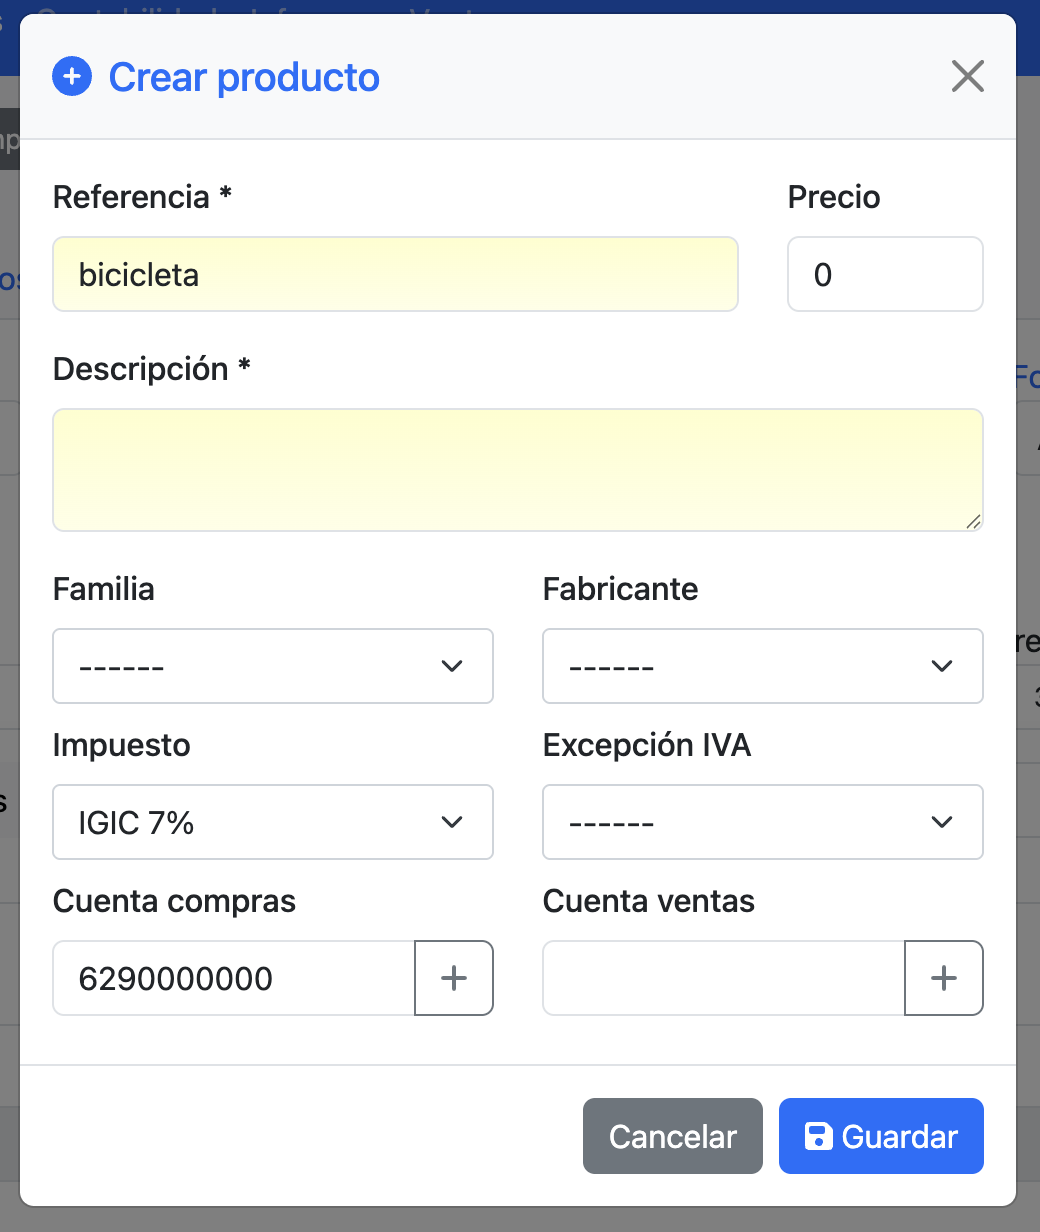
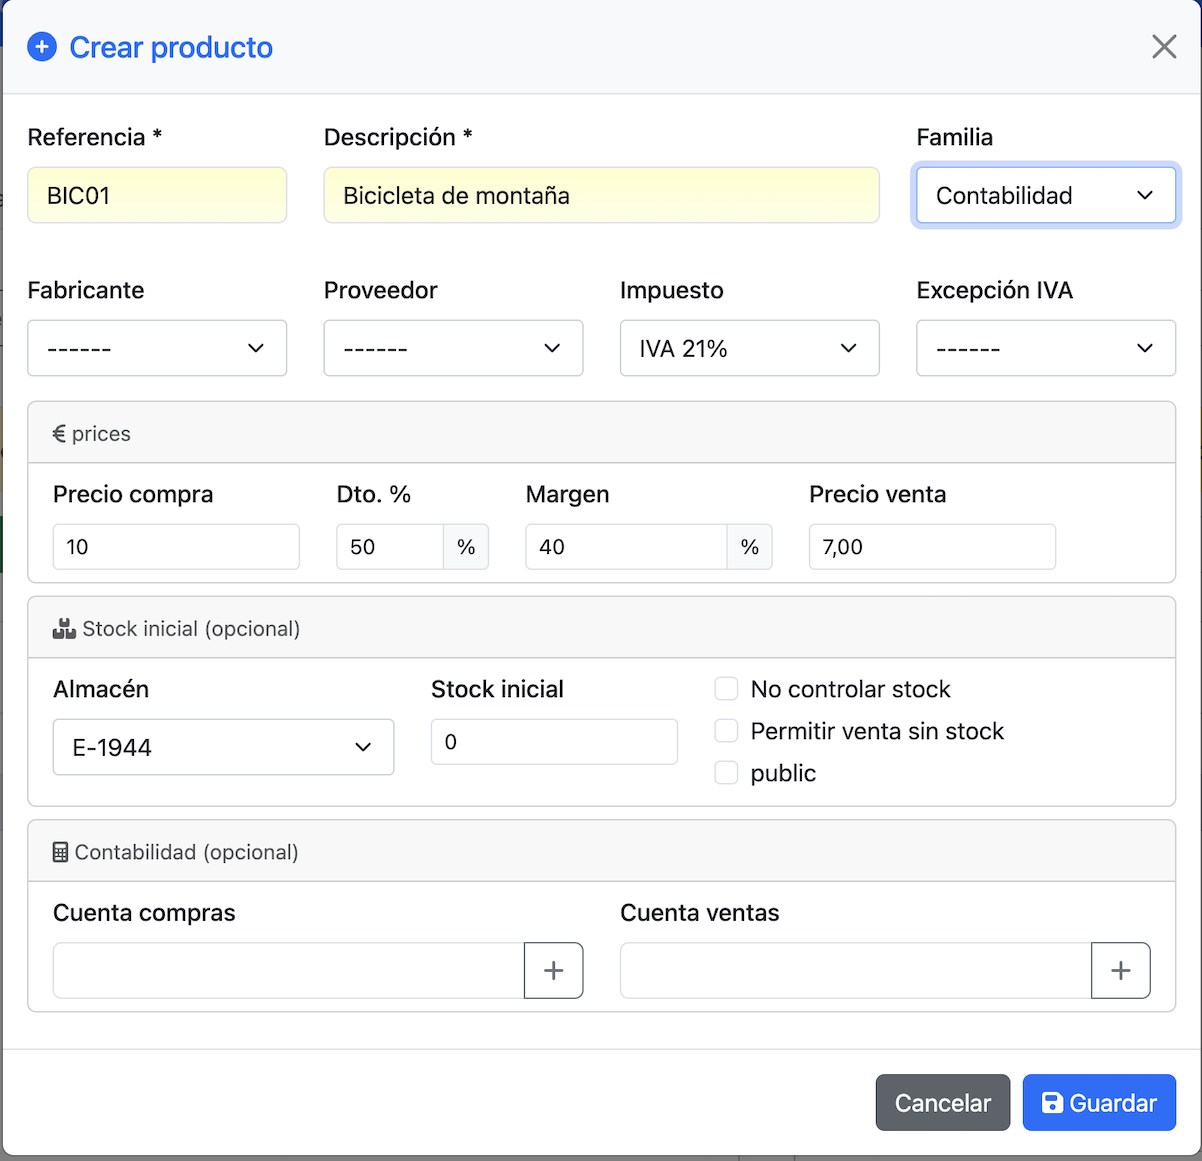
Improved calculation and better form ux

diff --git a/Assets/JS/QuickCreate.js b/Assets/JS/QuickCreate.js
@@ -471,6 +471,7 @@
             const container = document.getElementById('quickCreateProductDynamicFields');
             const purchaseContainer = document.getElementById('quickCreateProductPurchaseFields');
             const stockContainer = document.getElementById('quickCreateProductStockFields');
+            const familyContainer = document.getElementById('quickCreateProductFamilyContainer');
             if (!container) return;
 
             if (this.productOptions === null) {
@@ -478,18 +479,24 @@
                 return;
             }
 
+            // Render Family select in row 1 (inside the modal header row)
+            if (familyContainer) {
+                familyContainer.innerHTML = this.buildSelect2Html('quickCreateProductFamily', 'codfamilia', this.trans('family'), this.productOptions.familias, '');
+                $(familyContainer).find('select.select2').select2({
+                    width: '100%',
+                    theme: 'bootstrap-5',
+                    dropdownParent: $('#quickCreateProductModal')
+                });
+            }
+
             let html = '';
 
-            // Row 1: Familia + Fabricante (Select2)
+            // Row 2: Fabricante + Proveedor + Impuesto + Excepción IVA (Select2)
             html += '<div class="row mb-2">';
-            html += this.buildSelect2Html('quickCreateProductFamily', 'codfamilia', this.trans('family'), this.productOptions.familias, 'col-md-6');
-            html += this.buildSelect2Html('quickCreateProductManufacturer', 'codfabricante', this.trans('manufacturer'), this.productOptions.fabricantes, 'col-md-6');
-            html += '</div>';
-
-            // Row 2: Impuesto + Excepción IVA (Select2)
-            html += '<div class="row mb-2">';
-            html += this.buildSelect2Html('quickCreateProductTax', 'codimpuesto', this.trans('tax'), this.productOptions.impuestos, 'col-md-6', this.productOptions.defaultTax);
-            html += this.buildSelect2Html('quickCreateProductVatException', 'excepcioniva', this.trans('vat-exception'), this.productOptions.excepciones, 'col-md-6');
+            html += this.buildSelect2Html('quickCreateProductManufacturer', 'codfabricante', this.trans('manufacturer'), this.productOptions.fabricantes, 'col-md-3');
+            html += this.buildSelect2Html('quickCreateProductSupplier', 'codproveedor', this.trans('supplier'), this.productOptions.proveedores || [], 'col-md-3');
+            html += this.buildSelect2Html('quickCreateProductTax', 'codimpuesto', this.trans('tax'), this.productOptions.impuestos, 'col-md-3', this.productOptions.defaultTax);
+            html += this.buildSelect2Html('quickCreateProductVatException', 'excepcioniva', this.trans('vat-exception'), this.productOptions.excepciones, 'col-md-3');
             html += '</div>';
 
             container.innerHTML = html;
@@ -501,7 +508,7 @@
                 dropdownParent: $('#quickCreateProductModal')
             });
 
-            // Render purchase data section
+            // Render purchase data section (now "Prices")
             this.renderPurchaseFields(purchaseContainer);
 
             // Render stock data section
@@ -516,16 +523,13 @@
 
             let html = '';
             html += '<div class="card mt-3 mb-2">';
-            html += `<div class="card-header py-2"><small class="text-muted"><i class="fas fa-truck me-1"></i>${this.trans('purchase-data')}</small></div>`;
+            html += `<div class="card-header py-2"><small class="text-muted"><i class="fas fa-euro-sign me-1"></i>${this.trans('prices')}</small></div>`;
             html += '<div class="card-body py-2">';
             html += '<div class="row">';
 
-            // Proveedor (Select2)
-            html += this.buildSelect2Html('quickCreateProductSupplier', 'codproveedor', this.trans('supplier'), this.productOptions.proveedores || [], 'col-md-4');
-
             // Precio compra
             html += `
-                <div class="col-md-2">
+                <div class="col-md-3">
                     <label for="quickCreateProductPurchasePrice" class="form-label">${this.trans('purchase-price')}</label>
                     <input type="number" step="0.01" class="form-control form-control-sm" id="quickCreateProductPurchasePrice" name="preciocompra" value="0">
                 </div>
@@ -542,14 +546,22 @@
                 </div>
             `;
 
-            // Margen % (readonly, calculated)
+            // Margen % (editable, calculates price)
             html += `
-                <div class="col-md-2">
+                <div class="col-md-3">
                     <label for="quickCreateProductMargin" class="form-label">${this.trans('margin')}</label>
                     <div class="input-group input-group-sm">
-                        <input type="number" step="0.01" class="form-control" id="quickCreateProductMargin" readonly>
+                        <input type="number" step="0.01" class="form-control" id="quickCreateProductMargin" name="margen" value="0">
                         <span class="input-group-text">%</span>
                     </div>
+                </div>
+            `;
+
+            // Precio venta
+            html += `
+                <div class="col-md-3">
+                    <label for="quickCreateProductPrice" class="form-label">${this.trans('sale-price')}</label>
+                    <input type="number" step="0.01" class="form-control form-control-sm" id="quickCreateProductPrice" name="precio" value="0">
                 </div>
             `;
 
@@ -558,13 +570,6 @@
             html += '</div>';
 
             container.innerHTML = html;
-
-            // Initialize Select2 for supplier
-            $(container).find('select.select2').select2({
-                width: '100%',
-                theme: 'bootstrap-5',
-                dropdownParent: $('#quickCreateProductModal')
-            });
 
             // Bind margin calculation events
             this.bindMarginCalculation();
@@ -592,7 +597,7 @@
                 </div>
             `;
 
-            // Checkboxes: No controlar stock + Permitir venta sin stock
+            // Checkboxes: No controlar stock + Permitir venta sin stock + Público
             html += `
                 <div class="col-md-5 d-flex align-items-end">
                     <div>
@@ -600,9 +605,13 @@
                             <input type="checkbox" name="nostock" value="TRUE" id="quickCreateProductNoStock" class="form-check-input">
                             <label for="quickCreateProductNoStock" class="form-check-label">${this.trans('no-stock-control')}</label>
                         </div>
-                        <div class="form-check">
+                        <div class="form-check mb-1">
                             <input type="checkbox" name="ventasinstock" value="TRUE" id="quickCreateProductSellWithoutStock" class="form-check-input">
                             <label for="quickCreateProductSellWithoutStock" class="form-check-label">${this.trans('allow-sale-without-stock')}</label>
+                        </div>
+                        <div class="form-check">
+                            <input type="checkbox" name="publico" value="TRUE" id="quickCreateProductPublic" class="form-check-input">
+                            <label for="quickCreateProductPublic" class="form-check-label">${this.trans('public')}</label>
                         </div>
                     </div>
                 </div>
@@ -658,7 +667,6 @@
         },
 
         bindMarginCalculation: function () {
-            const self = this;
             const priceInput = document.getElementById('quickCreateProductPrice');
             const purchasePriceInput = document.getElementById('quickCreateProductPurchasePrice');
             const discountInput = document.getElementById('quickCreateProductDiscount');
@@ -666,29 +674,31 @@
 
             if (!priceInput || !purchasePriceInput || !discountInput || !marginInput) return;
 
-            const calculateMargin = function () {
-                const precioVenta = parseFloat(priceInput.value) || 0;
+            // Calculate price from margin: precio = neto * (1 + margen/100)
+            const calculatePrice = function () {
                 const precioCompra = parseFloat(purchasePriceInput.value) || 0;
                 const descuento = parseFloat(discountInput.value) || 0;
+                const margen = parseFloat(marginInput.value) || 0;
 
                 // Neto = precioCompra * (1 - descuento/100)
                 const neto = precioCompra * (1 - descuento / 100);
 
-                // Margen = ((precioVenta - neto) / neto) * 100
-                if (neto > 0) {
-                    const margen = ((precioVenta - neto) / neto) * 100;
-                    marginInput.value = margen.toFixed(2);
-                } else {
-                    marginInput.value = '';
+                // Precio = neto * (1 + margen/100)
+                if (neto > 0 && margen !== 0) {
+                    const precio = neto * (1 + margen / 100);
+                    priceInput.value = precio.toFixed(2);
                 }
             };
 
-            priceInput.addEventListener('input', calculateMargin);
-            purchasePriceInput.addEventListener('input', calculateMargin);
-            discountInput.addEventListener('input', calculateMargin);
+            // When price is changed directly, reset margin to 0
+            priceInput.addEventListener('input', function () {
+                marginInput.value = '0';
+            });
 
-            // Initial calculation
-            calculateMargin();
+            // When purchase price, discount, or margin changes, recalculate price
+            purchasePriceInput.addEventListener('input', calculatePrice);
+            discountInput.addEventListener('input', calculatePrice);
+            marginInput.addEventListener('input', calculatePrice);
         },
 
         buildSubcuentaInputHtml: function (id, name, label, colClass) {
@@ -1159,17 +1169,16 @@
                                 <div class="alert alert-danger d-none" id="quickCreateProductError"></div>
                                 <form id="quickCreateProductForm">
                                     <div class="row mb-3">
-                                        <div class="col-md-4">
+                                        <div class="col-md-3">
                                             <label for="quickCreateProductRef" class="form-label">${this.trans('reference')} *</label>
                                             <input type="text" class="form-control" id="quickCreateProductRef" name="referencia" required>
-                                        </div>
-                                        <div class="col-md-2">
-                                            <label for="quickCreateProductPrice" class="form-label">${this.trans('sale-price')}</label>
-                                            <input type="number" step="0.01" class="form-control" id="quickCreateProductPrice" name="precio" value="0">
                                         </div>
                                         <div class="col-md-6">
                                             <label for="quickCreateProductDesc" class="form-label">${this.trans('description')} *</label>
                                             <input type="text" class="form-control" id="quickCreateProductDesc" name="descripcion" required>
+                                        </div>
+                                        <div class="col-md-3" id="quickCreateProductFamilyContainer">
+                                            <!-- Family select will be injected here -->
                                         </div>
                                     </div>
                                     <div id="quickCreateProductDynamicFields"></div>
@@ -1791,7 +1800,9 @@
                 'accounting': 'Contabilidad (opcional)',
                 'sale-price': 'Precio venta',
                 'no-stock-control': 'No controlar stock',
-                'allow-sale-without-stock': 'Permitir venta sin stock'
+                'allow-sale-without-stock': 'Permitir venta sin stock',
+                'public': 'Público',
+                'prices': 'Precios (opcional)'
             };
 
             return fallback[key] || key;

diff --git a/Test/main/QuickCreateActionTest.php b/Test/main/QuickCreateActionTest.php
@@ -794,4 +794,106 @@ class QuickCreateActionTest extends TestCase
             'getProductOptions should include default flag for warehouses'
         );
     }
+
+    // =========================================================================
+    // MARGIN AND PRICE TESTS (NEW FEATURES)
+    // =========================================================================
+
+    /**
+     * Test that createProduct handles margen field
+     */
+    public function testCreateProductHandlesMargenField(): void
+    {
+        $filename = $this->reflection->getFileName();
+        $controllerFile = file_get_contents($filename);
+
+        $this->assertStringContainsString(
+            "->get('margen'",
+            $controllerFile,
+            'createProduct should read margen from request'
+        );
+    }
+
+    /**
+     * Test that createProduct updates variante margen when provided
+     */
+    public function testCreateProductUpdatesVarianteMargen(): void
+    {
+        $filename = $this->reflection->getFileName();
+        $controllerFile = file_get_contents($filename);
+
+        $this->assertStringContainsString(
+            '$variante->margen',
+            $controllerFile,
+            'createProduct should update variante margen'
+        );
+    }
+
+    /**
+     * Test that createProduct updates variante precio
+     */
+    public function testCreateProductUpdatesVariantePrecio(): void
+    {
+        $filename = $this->reflection->getFileName();
+        $controllerFile = file_get_contents($filename);
+
+        $this->assertStringContainsString(
+            '$variante->precio',
+            $controllerFile,
+            'createProduct should update variante precio'
+        );
+    }
+
+    /**
+     * Test that createProduct handles publico checkbox
+     */
+    public function testCreateProductHandlesPublicoCheckbox(): void
+    {
+        $filename = $this->reflection->getFileName();
+        $controllerFile = file_get_contents($filename);
+
+        $this->assertStringContainsString(
+            "->get('publico'",
+            $controllerFile,
+            'createProduct should read publico checkbox from request'
+        );
+        $this->assertStringContainsString(
+            '$producto->publico',
+            $controllerFile,
+            'createProduct should set producto publico property'
+        );
+    }
+
+    /**
+     * Test that createProduct saves variante after setting precio/coste/margen
+     */
+    public function testCreateProductSavesVarianteWithPriceData(): void
+    {
+        $filename = $this->reflection->getFileName();
+        $controllerFile = file_get_contents($filename);
+
+        // Check the order: coste/margen/precio should be set before save
+        $costePos = strpos($controllerFile, '$variante->coste');
+        $savePos = strpos($controllerFile, '$variante->save()');
+
+        $this->assertNotFalse($costePos, 'Should set variante coste');
+        $this->assertNotFalse($savePos, 'Should save variante');
+        $this->assertLessThan($savePos, $costePos, 'Should set coste before saving variante');
+    }
+
+    /**
+     * Test margin calculation logic: if margen > 0, precio is calculated by Variante::save()
+     */
+    public function testCreateProductMarginLogicDocumented(): void
+    {
+        $filename = $this->reflection->getFileName();
+        $controllerFile = file_get_contents($filename);
+
+        // Check that the logic for margen > 0 exists
+        $this->assertStringContainsString(
+            '$margen > 0',
+            $controllerFile,
+            'createProduct should check if margen > 0 to decide calculation method'
+        );
+    }
 }

diff --git a/Controller/QuickCreateAction.php b/Controller/QuickCreateAction.php
@@ -125,6 +125,7 @@ class QuickCreateAction extends Controller
         $codsubcuentaven = $this->request->get('codsubcuentaven', '');
         $nostock = $this->request->get('nostock', '') === 'TRUE';
         $ventasinstock = $this->request->get('ventasinstock', '') === 'TRUE';
+        $publico = $this->request->get('publico', '') === 'TRUE';
 
         // Validate required fields
         if (empty($referencia)) {
@@ -177,6 +178,9 @@ class QuickCreateAction extends Controller
         if ($ventasinstock) {
             $producto->ventasinstock = true;
         }
+        if ($publico) {
+            $producto->publico = true;
+        }
 
         if (false === $producto->save()) {
             $this->response->setStatusCode(500);
@@ -191,11 +195,28 @@ class QuickCreateAction extends Controller
         $variante = new Variante();
         $variante->loadFromCode('', [new DataBaseWhere('idproducto', $producto->idproducto)]);
 
-        // Create ProductoProveedor if supplier and purchase price are provided
+        // Update variante with precio, coste and margen
         $codproveedor = $this->request->get('codproveedor', '');
         $preciocompra = (float) $this->request->get('preciocompra', 0);
         $dtopor = (float) $this->request->get('dtopor', 0);
+        $margen = (float) $this->request->get('margen', 0);
 
+        // Set coste (net purchase price after discount)
+        if ($preciocompra > 0) {
+            $variante->coste = $preciocompra * (1 - $dtopor / 100);
+        }
+
+        // If margen > 0, set margen and let Variante::save() calculate precio
+        // Otherwise, set precio directly
+        if ($margen > 0) {
+            $variante->margen = $margen;
+            // precio will be calculated by Variante::save() as: coste * (100 + margen) / 100
+        } else {
+            $variante->precio = $precio;
+        }
+        $variante->save();
+
+        // Create ProductoProveedor if supplier and purchase price are provided
         if (!empty($codproveedor) && $preciocompra > 0) {
             $prodProv = new ProductoProveedor();
             $prodProv->referencia = $variante->referencia;
@@ -204,10 +225,6 @@ class QuickCreateAction extends Controller
             $prodProv->dtopor = $dtopor;
             // neto is calculated automatically in test()
             $prodProv->save();
-
-            // Update variante with coste (net purchase price)
-            $variante->coste = $preciocompra * (1 - $dtopor / 100);
-            $variante->save();
         }
 
         // Create Stock if quantity and warehouse are provided
